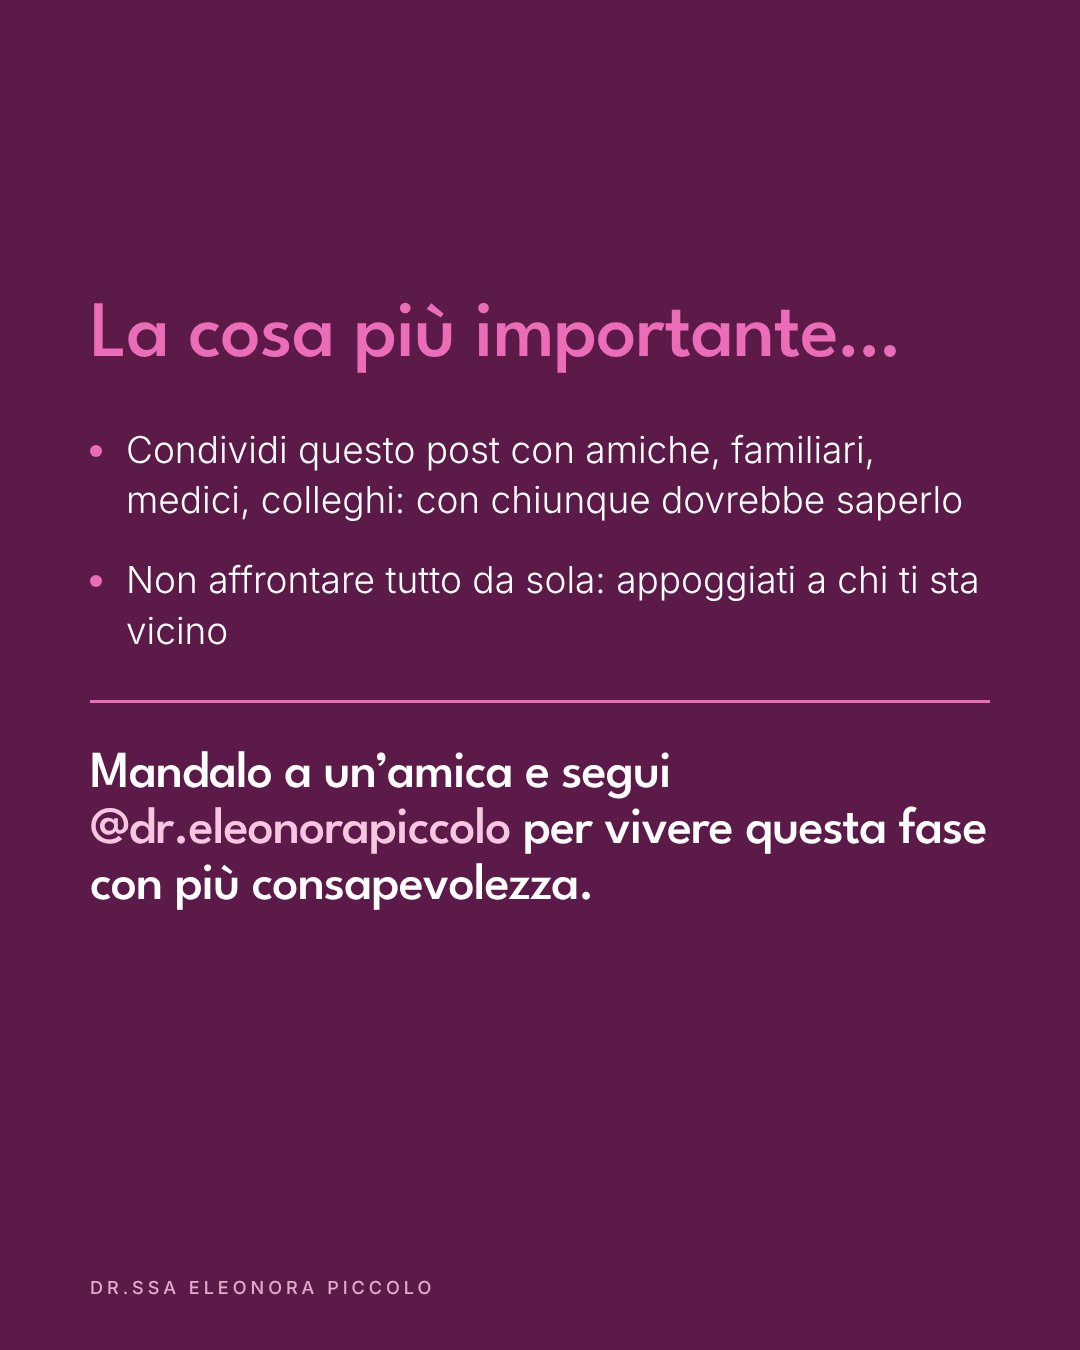
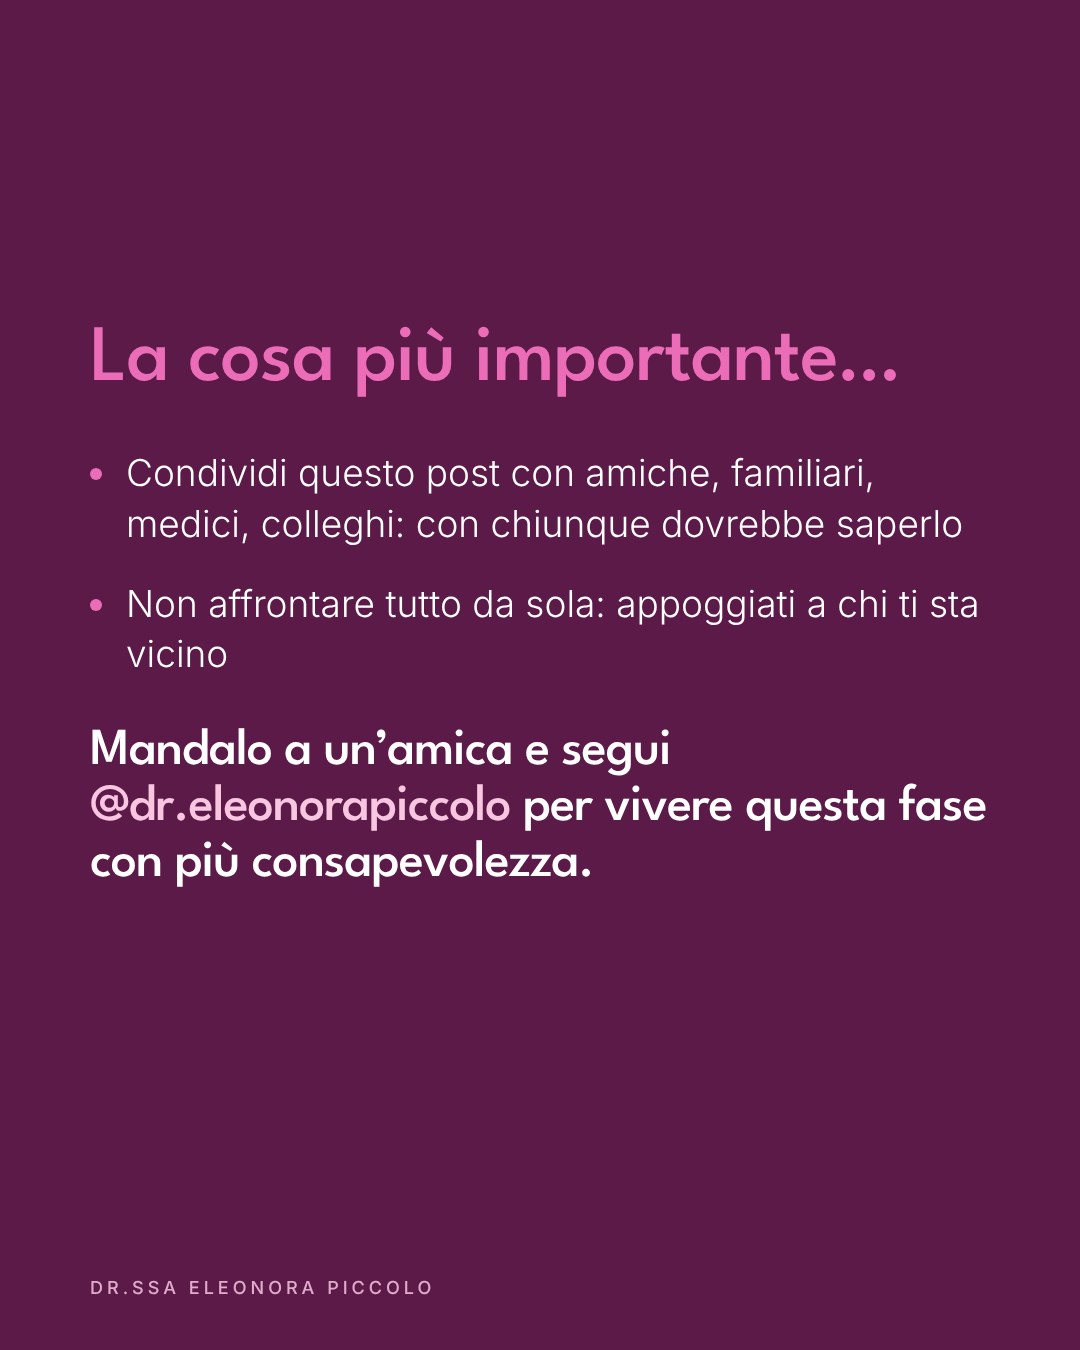
Rimuovi le linee divisorie da entrambi i caroselli
Claude-Session: https://claude.ai/code/session_016XPgH8wqbxXqRTjFznYGrk

Changed region(s): [[0.1222, 0.3111, 0.9167, 0.4978], [0.0611, 0.5289, 0.9167, 0.6844], [0.0917, 0.2178, 0.825, 0.28]]

diff --git a/src/PostPerimenopausa/Slides.tsx b/src/PostPerimenopausa/Slides.tsx
@@ -122,7 +122,7 @@ export const Slide2: React.FC = () => (
           la stanchezza.
         </div>
       </div>
-      <div style={{ borderTop: `3px solid ${colors.pink}`, padding: "30px 60px 40px" }}>
+      <div style={{ padding: "10px 60px 64px" }}>
         <div style={{ fontSize: 26, letterSpacing: 6, fontWeight: 500, color: colors.blush }}>
           LE DONNE IN PERIMENOPAUSA:
         </div>
@@ -209,7 +209,6 @@ export const Slide5: React.FC = () => (
         Stanchezza e irritabilità vengono spesso liquidate con un “è lo stress” o un “sarà l’età”. I
         dati aiutano a prenderle sul serio e a parlarne con il medico senza sentirti esagerata.
       </Body>
-      <div style={{ height: 3, backgroundColor: colors.pink, marginTop: 8 }} />
       <Title color={colors.white} size={50}>
         <span style={{ color: colors.blush }}>
           <Em>Per cominciare basta una frase:</Em>

diff --git a/src/PostDolore/Slides.tsx b/src/PostDolore/Slides.tsx
@@ -286,7 +286,6 @@ export const Slide9: React.FC = () => (
           </div>
         ))}
       </div>
-      <div style={{ height: 3, backgroundColor: colors.pink }} />
       <Title color={colors.white} size={52}>
         Mandalo a un’amica e segui <Hl color={colors.blush}>@dr.eleonorapiccolo</Hl> per vivere
         questa fase con più consapevolezza.
